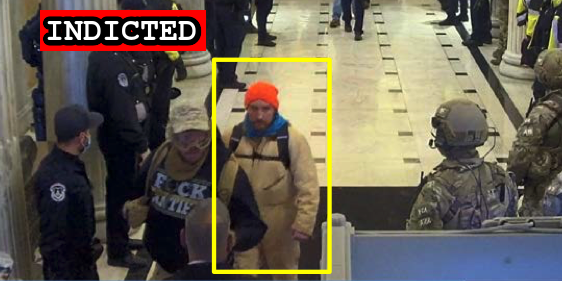
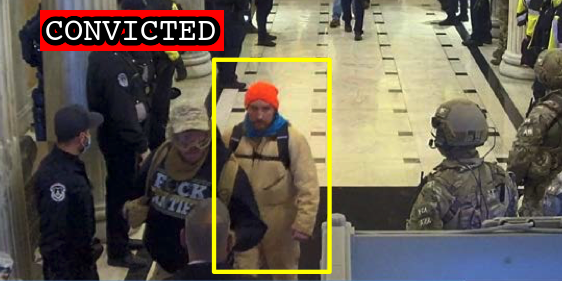
Latest import

Changed region(s): [[0.0605, 0.0285, 0.4235, 0.1993]]

diff --git a/docs/_suspects/jeremy-bertino.md b/docs/_suspects/jeremy-bertino.md
@@ -34,22 +34,21 @@ description: Click for latest case details. Suspects innocent until proven guilt
 author: seditiontrack
 layout: suspect
 published: true
-caseNumber:
+caseNumber: 1:22-cr-329
 videos:
 charges:
-  - code: 18 USC § 2384
-    title: Seditious Conspiracy
-    url: https://www.law.cornell.edu/uscode/text/18/2384
-    felony: true
-  - code: 18 USC § 922(g)(1)
-    title: Unlawful Possession of Firearms (Convicted Felon)
-    url: https://www.law.cornell.edu/uscode/text/18/922
-    felony: true
+- code: 18 USC § 2384
+  title: Seditious Conspiracy
+  url: https://www.law.cornell.edu/uscode/text/18/2384
+  felony: true
+- code: 18 USC § 922(g)(1)
+  title: Unlawful Possession of Firearms (Convicted Felon)
+  url: https://www.law.cornell.edu/uscode/text/18/922
+  felony: true
 sentence:
 ---
-
 - [News Report](https://www.politico.com/news/2022/10/06/proud-boys-leader-pleads-guilty-to-seditious-conspiracy-over-jan-6-actions-00060819)
 - [DOJ News Release (Plea Agreement)](https://www.justice.gov/usao-dc/pr/former-leader-proud-boys-pleads-guilty-seditious-conspiracy-efforts-stop-transfer-power)
-- [Information](https://storage.courtlistener.com/recap/gov.uscourts.dcd.247985/gov.uscourts.dcd.247985.1.0_1.pdf)
-- [Plea Agreement](https://storage.courtlistener.com/recap/gov.uscourts.dcd.247985/gov.uscourts.dcd.247985.4.0_2.pdf)
-- [Statement of Offense](https://storage.courtlistener.com/recap/gov.uscourts.dcd.247985/gov.uscourts.dcd.247985.5.0_7.pdf)
+- [Information](https://www.justice.gov/usao-dc/case-multi-defendant/file/1541226/download)
+- [Plea Agreement](https://www.justice.gov/usao-dc/case-multi-defendant/file/1541231/download)
+- [Statement of Offense](https://www.justice.gov/usao-dc/case-multi-defendant/file/1541236/download)

diff --git a/docs/_suspects/james-horning.md b/docs/_suspects/james-horning.md
@@ -4,15 +4,18 @@ lastName: Horning
 hashtag: JamesHorning
 aka:
 residence: Ohio
-status: Indicted
+status: Convicted
 date: 2021-03-01
 charged: 2021-03-01
 indicted: 2021-04-02
-convicted:
+convicted: 2022-10-06
+acquitted:
 sentenced:
 dismissed:
 deceased:
-plea_hearing:
+plea_hearing: 2022-10-06
+trial_date:
+trial_type:
 sentencing:
 age: 44
 occupation:
@@ -25,7 +28,7 @@ courtroom:
 courthouse:
 raid:
 perpwalk:
-quote: 'Those of you calling for an investigation, why don’t you try investigating deez nuts with ya chin'
+quote: "Those of you calling for an investigation, why don’t you try investigating deez nuts with ya chin"
 title: James Horning arrested on March 1, 2021
 description: Click for latest case details. Suspects innocent until proven guilty.
 author: seditiontrack
@@ -34,8 +37,15 @@ published: true
 caseNumber: 1:21-cr-275
 videos:
 charges:
+  - code: 18 USC § 1752(a)(1)
+    title: Entering a restricted building or grounds
+    url: https://www.law.cornell.edu/uscode/text/18/1752
+    felony: false
 sentence:
 ---
+
 - [News Report](https://sciotovalleyguardian.com/2021/01/10/fbi-tipped-to-local-man-who-was-involved-in-capitol-siege/)
 - [Statement of Facts](https://www.justice.gov/usao-dc/case-multi-defendant/file/1378696/download)
 - [Indictment](https://www.justice.gov/usao-dc/case-multi-defendant/file/1422221/download)
+- [Plea Agreement](https://www.justice.gov/usao-dc/case-multi-defendant/file/1541246/download)
+- [Statement of Offense](https://www.justice.gov/usao-dc/case-multi-defendant/file/1541251/download)

diff --git a/docs/_suspects/cole-temple.md b/docs/_suspects/cole-temple.md
@@ -4,15 +4,18 @@ lastName: Temple
 hashtag: ColeTemple
 aka:
 residence: Ohio
-status: Charged
+status: Convicted
 date: 2021-08-19
 charged: 2021-08-19
 indicted:
-convicted:
+convicted: 2022-10-05
+acquitted:
 sentenced:
 dismissed:
 deceased:
-plea_hearing:
+plea_hearing: 2022-10-05
+trial_date:
+trial_type:
 sentencing:
 age:
 occupation:
@@ -31,11 +34,18 @@ description: Click for latest case details. Suspects innocent until proven guilt
 author: seditiontrack
 layout: suspect
 published: true
-caseNumber: 1:21-mj-568
+caseNumber: 1:22-cr-243
 videos:
 charges:
+- code: 40 USC § 5104(e)(2)(G)
+  title: Parading, demonstrating or picketing in a Capitol building
+  url: https://www.law.cornell.edu/uscode/text/40/5104
+  felony: false
 sentence:
 ---
 - [News Report](https://www.13abc.com/2021/08/20/swanton-residents-charged-jan-6-riot-us-capitol/)
 - [Affidavit](https://www.scribd.com/document/520951756/Wilson-Affidavit#from_embed)
 - [Statement of Facts](https://www.justice.gov/usao-dc/case-multi-defendant/file/1428571/download)
+- [Information](https://www.justice.gov/usao-dc/case-multi-defendant/file/1541336/download)
+- [Plea Agreement](https://www.justice.gov/usao-dc/case-multi-defendant/file/1541326/download)
+- [Statement of Offense](https://www.justice.gov/usao-dc/case-multi-defendant/file/1541331/download)

diff --git a/docs/_suspects/lawrence-ambrose.md b/docs/_suspects/lawrence-ambrose.md
@@ -1,9 +1,9 @@
 ---
 name: Lawrence Ambrose
 lastName: Ambrose
-hashtag: 
+hashtag: MagaButtonMan
 aka:
-residence: 
+residence:
 status: Charged
 date: 2022-09-13
 charged: 2022-09-13
@@ -39,4 +39,5 @@ videos:
 charges:
 sentence:
 ---
+
 - [Information](https://storage.courtlistener.com/recap/gov.uscourts.dcd.247234/gov.uscourts.dcd.247234.1.0.pdf)
